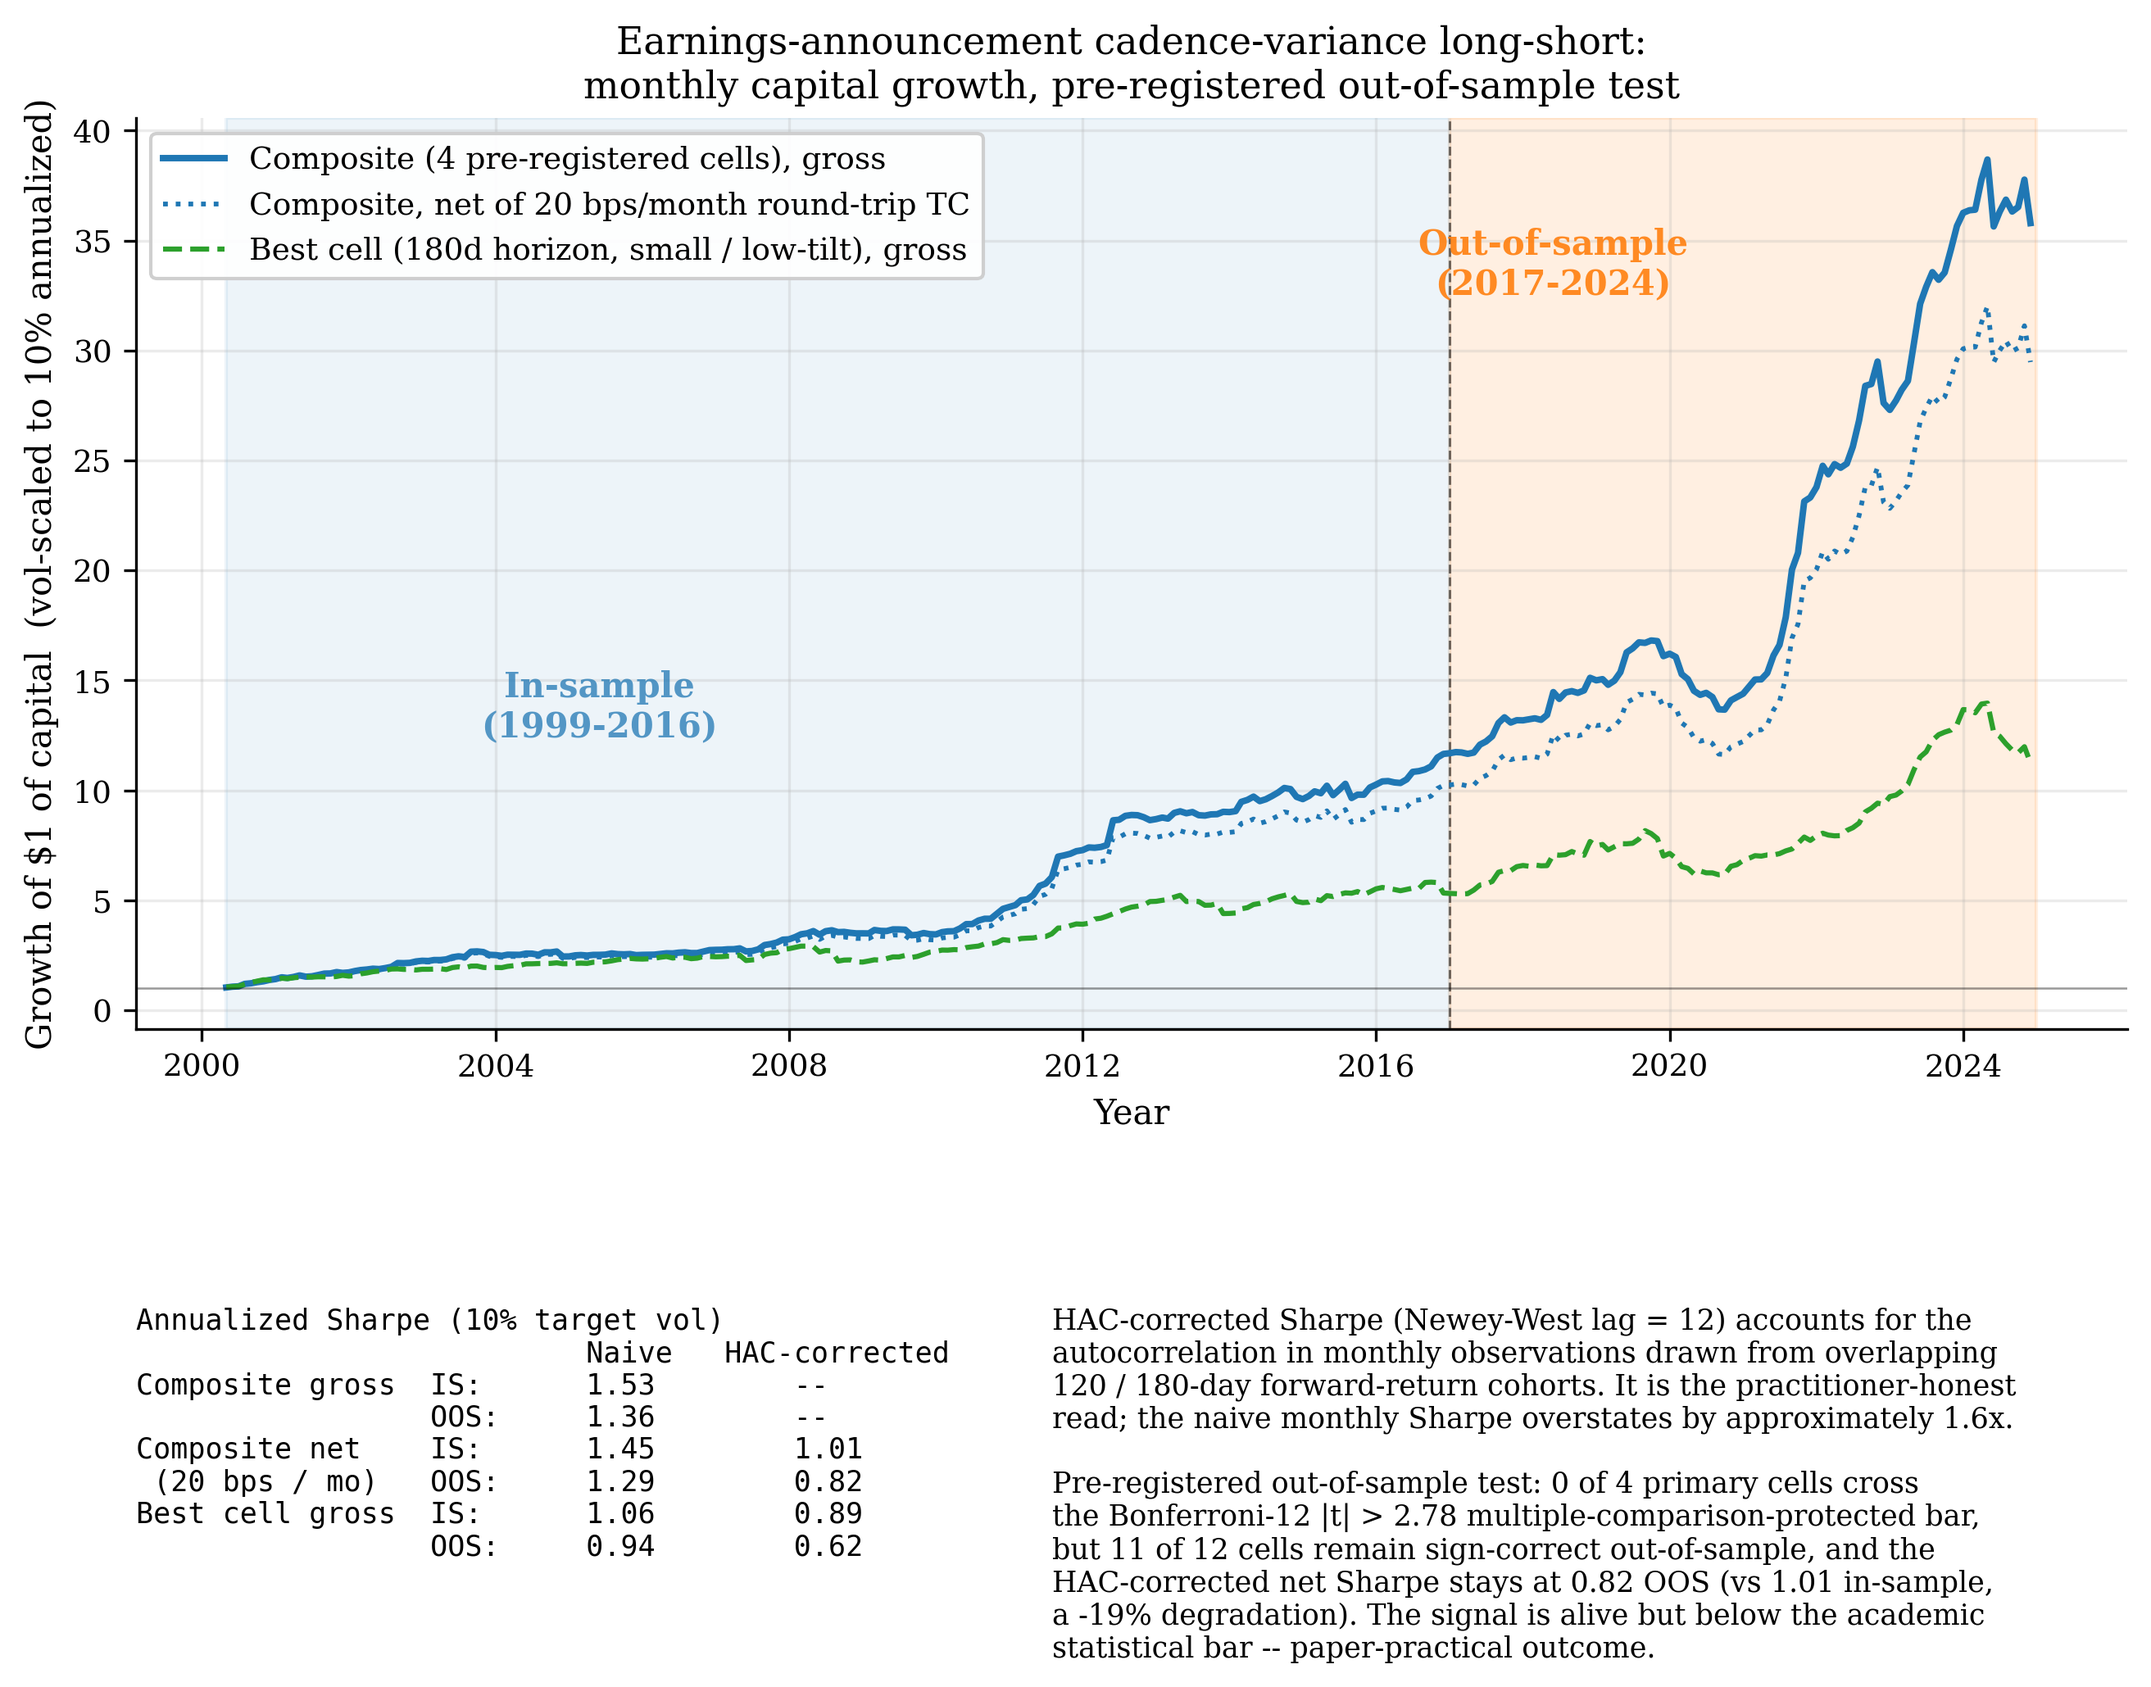
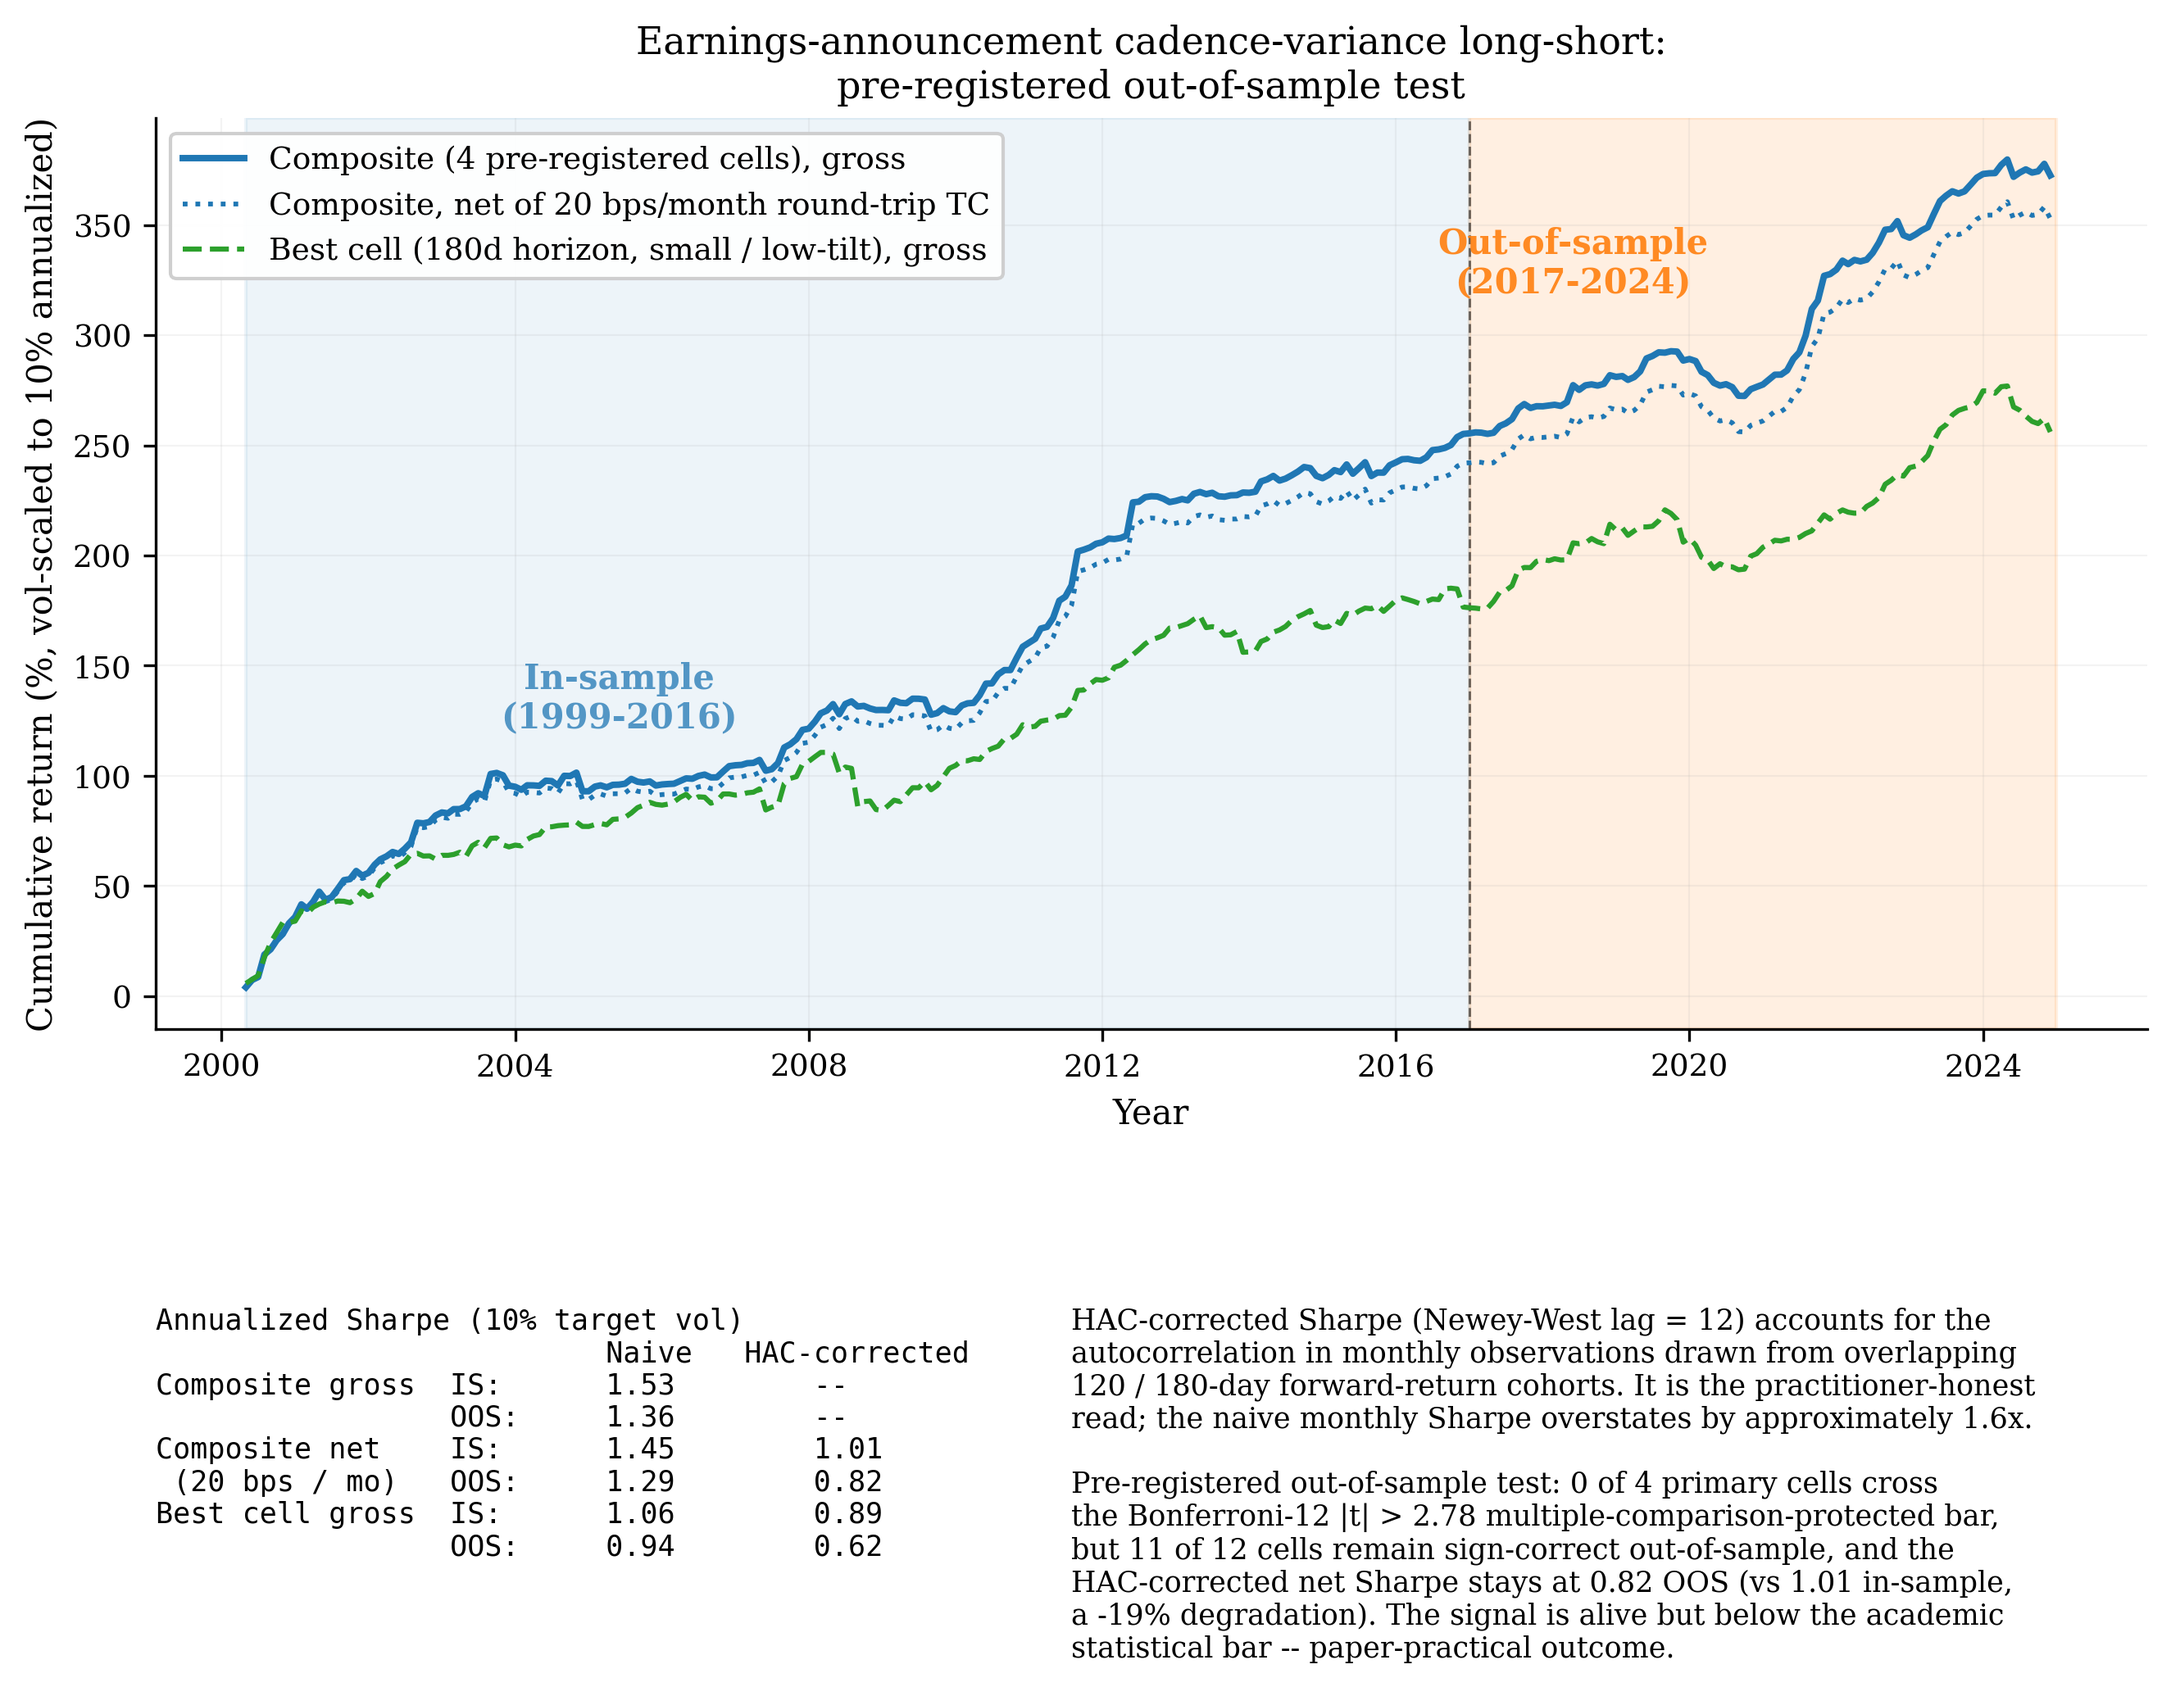
fig1 + fig2: cumsum convention + residual alpha trail
User feedback: (1) fig1 looked exponential -- in fact it used
multiplicative (1+r).cumprod() while fig2 used additive r.cumsum(), so
the two figures used different visualization conventions on the same
data. Fix: switch fig1 to additive cumsum (V5 convention), matching
fig2. Monthly observations are H-day cumulative returns from overlapping
cohorts, so multiplicative compounding over-states. Additive is correct.

(2) Add residual alpha trail to fig2 -- regress strategy net on FF5+UMD
factors, plot residual = strategy_net - betahat * factors.

fig1 changes (no Sharpe / TC numbers change):
  - cumulative_growth: (1+r).cumprod -> 100 * cumsum
  - Y-axis: 'Growth of $1' -> 'Cumulative return (%)'
  - Removed axhline(1.0) reference line
  - Grid alpha 0.25 -> 0.15 with thin linewidth
  - Title: 'monthly capital growth' -> just 'pre-registered OOS test'

fig2 additions:
  - 4th line: Residual alpha (strategy net minus factor span), dash-dot green
  - Sharpe annotation: added residual alpha row + FF5+UMD intercept

fig2 numerics (composite of 4 pre-registered primary cells, vol-matched
to FF5+UMD tangent IS vol 3.9 pct):

  HAC-corrected Sharpe (IS / OOS):
    Strategy gross:       1.06 / 0.87
    Strategy net 20 bp:   1.01 / 0.82
    FF5+UMD tangent:      1.05 / 1.01
    Residual alpha:       1.03 / 0.87

  FF5+UMD intercept (IS, strategy net): +5.6 pct / yr
  Factor betas: |beta_i| <= 0.029 for all 6 factors (Mkt-RF, SMB, HML,
[…]

diff --git a/scripts/make_pnl_figure_vol_matched.py b/scripts/make_pnl_figure_vol_matched.py
@@ -124,10 +124,26 @@ def main() -> int:
     strat_vm = composite * scale
     strat_net_vm = composite_net * scale
 
+    # ---- 3a. Residual alpha vs FF5+UMD: strategy - betahat * factors ----
+    # Regress vol-matched strategy (net) on FF5+UMD factors with intercept;
+    # the residual series alpha_t = strategy_t - betahat * factors_t is the
+    # part of the strategy return that the factor model does not explain.
+    # This is V5 make_fig1's "residual alpha trail" convention.
+    y_net = strat_net_vm.loc[is_mask].dropna().values
+    X_is = np.column_stack([np.ones(int(is_mask.sum())), ff_aligned.loc[is_mask].values])
+    # Lstsq on IS to get betas; apply to FULL series for OOS residual trail.
+    beta = np.linalg.lstsq(X_is, strat_net_vm.loc[is_mask].values, rcond=None)[0]
+    intercept = beta[0]
+    factor_betas = beta[1:]
+    # Factor-spanned monthly return (excluding intercept):
+    factor_spanned = pd.Series(ff_aligned.values @ factor_betas, index=common)
+    residual_alpha = strat_net_vm - factor_spanned  # = intercept + residual_t in IS
+
     # ---- 4. Cumulative additive return ----
     cg_strat_vm = 100.0 * strat_vm.fillna(0).cumsum()
     cg_strat_net_vm = 100.0 * strat_net_vm.fillna(0).cumsum()
     cg_tan = 100.0 * tangent.fillna(0).cumsum()
+    cg_alpha = 100.0 * residual_alpha.fillna(0).cumsum()
 
     # ---- 5. Sharpes ----
     stats = {
@@ -138,9 +154,15 @@ def main() -> int:
         "strat_vm_oos_sharpe": round(annualized_sharpe_hac(strat_vm[oos_mask]), 2),
         "strat_net_vm_is_sharpe": round(annualized_sharpe_hac(strat_net_vm[is_mask]), 2),
         "strat_net_vm_oos_sharpe": round(annualized_sharpe_hac(strat_net_vm[oos_mask]), 2),
+        "residual_alpha_is_sharpe": round(annualized_sharpe_hac(residual_alpha[is_mask]), 2),
+        "residual_alpha_oos_sharpe": round(annualized_sharpe_hac(residual_alpha[oos_mask]), 2),
+        "ff5umd_intercept_monthly_pct": round(float(intercept) * 100, 3),
+        "ff5umd_intercept_annualized_pct": round(float(intercept) * 12 * 100, 2),
+        "ff5umd_betas": {f: round(float(b), 3) for f, b in zip(FACTORS, factor_betas)},
         "terminal_strat_vm": round(float(cg_strat_vm.iloc[-1])),
         "terminal_strat_net_vm": round(float(cg_strat_net_vm.iloc[-1])),
         "terminal_tan": round(float(cg_tan.iloc[-1])),
+        "terminal_residual_alpha": round(float(cg_alpha.iloc[-1])),
         "tangent_weights": {f: round(float(w), 3) for f, w in zip(FACTORS, w_tan)},
     }
 
@@ -158,9 +180,12 @@ def main() -> int:
     ax.plot(cg_tan.index, cg_tan.values, color="C3", linewidth=1.5,
             linestyle="--",
             label="FF5+UMD tangent (in-sample max-Sharpe)")
+    ax.plot(cg_alpha.index, cg_alpha.values, color="C2", linewidth=1.5,
+            linestyle="-.",
+            label=r"Residual $\alpha$ (strategy net minus FF5+UMD factor span)")
 
-    ymax = float(max(cg_strat_vm.max(), cg_tan.max()))
-    ymin = float(min(cg_strat_vm.min(), cg_tan.min(), 0))
+    ymax = float(max(cg_strat_vm.max(), cg_tan.max(), cg_alpha.max()))
+    ymin = float(min(cg_strat_vm.min(), cg_tan.min(), cg_alpha.min(), 0))
     pad = (ymax - ymin) * 0.10
     ax.set_ylim(ymin - pad, ymax + pad)
 
@@ -177,7 +202,9 @@ def main() -> int:
         f"HAC-corrected Sharpe (IS / OOS):\n"
         f"   Strategy:                  {stats['strat_vm_is_sharpe']:.2f} / {stats['strat_vm_oos_sharpe']:.2f}\n"
         f"   Strategy, net:             {stats['strat_net_vm_is_sharpe']:.2f} / {stats['strat_net_vm_oos_sharpe']:.2f}\n"
-        f"   FF5+UMD tangent:           {stats['tan_is_sharpe']:.2f} / {stats['tan_oos_sharpe']:.2f}"
+        f"   FF5+UMD tangent:           {stats['tan_is_sharpe']:.2f} / {stats['tan_oos_sharpe']:.2f}\n"
+        f"   Residual alpha:            {stats['residual_alpha_is_sharpe']:.2f} / {stats['residual_alpha_oos_sharpe']:.2f}\n"
+        f"FF5+UMD intercept (IS net): {stats['ff5umd_intercept_annualized_pct']:.1f} % / yr"
     )
     ax.text(0.022, 0.62, sharpe_text, transform=ax.transAxes,
             fontsize=8.6, verticalalignment="top", horizontalalignment="left",

diff --git a/scripts/make_pnl_figure.py b/scripts/make_pnl_figure.py
@@ -108,7 +108,12 @@ def vol_scale(monthly: pd.Series, target_vol: float) -> pd.Series:
 
 
 def cumulative_growth(monthly: pd.Series) -> pd.Series:
-    return (1.0 + monthly.fillna(0)).cumprod()
+    """Additive cumulative return (in percentage points). Same convention as
+    V5 make_fig1 -- each monthly observation is already an H-day cumulative
+    log return (overlapping cohorts), so multiplicative cumprod over-states
+    the growth dramatically. Additive cumsum is the correct convention.
+    Sharpe and TC-break-even are unaffected by this choice."""
+    return 100.0 * monthly.fillna(0).cumsum()
 
 
 def main() -> int:
@@ -152,7 +157,6 @@ def main() -> int:
     ax.plot(best_growth.index, best_growth.values, color="C2", linewidth=1.5,
             linestyle="--",
             label="Best cell (180d horizon, small / low-tilt), gross")
-    ax.axhline(1.0, color="black", linewidth=0.6, alpha=0.4)
 
     # IS / OOS in-axes labels (positioned in upper third where lines are still low)
     ymax = float(max(cg_growth.max(), cn_growth.max(), best_growth.max()))
@@ -164,13 +168,13 @@ def main() -> int:
             ha="center", va="top", fontsize=10, color="C1", alpha=0.90,
             fontweight="bold")
 
-    ax.set_ylabel("Growth of $1 of capital  (vol-scaled to 10% annualized)")
+    ax.set_ylabel("Cumulative return (%, vol-scaled to 10% annualized)")
     ax.set_title(
         "Earnings-announcement cadence-variance long-short:\n"
-        "monthly capital growth, pre-registered out-of-sample test"
+        "pre-registered out-of-sample test"
     )
     ax.legend(loc="upper left", framealpha=0.93, fontsize=9)
-    ax.grid(True, alpha=0.25)
+    ax.grid(True, alpha=0.15, linewidth=0.5, linestyle="-")
     ax.set_xlabel("Year")
 
     # Summary box (lower-right) -- terminal capital + IS/OOS Sharpe per line.
